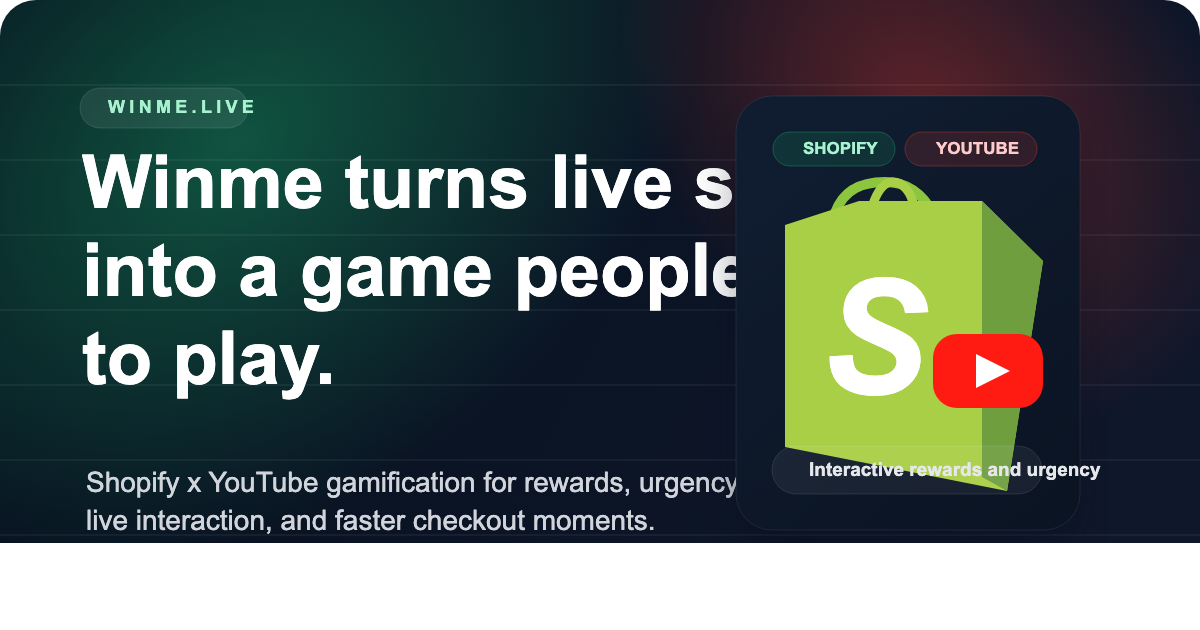
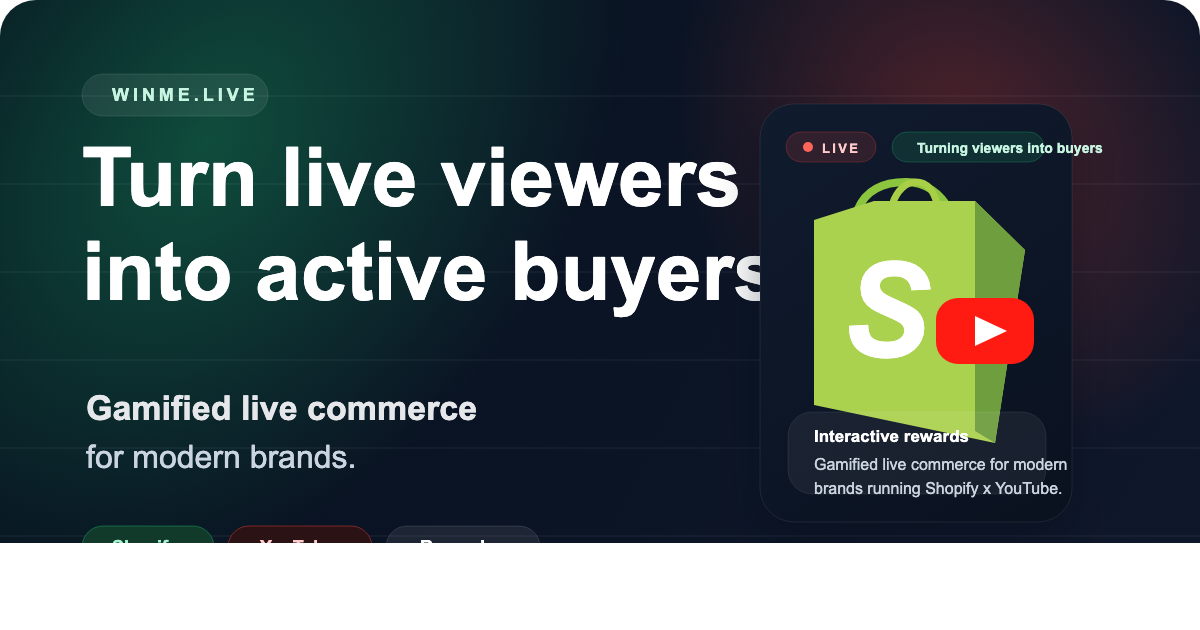
Improve WhatsApp share preview

diff --git a/index.html b/index.html
@@ -14,16 +14,16 @@
     />
     <meta
       name="description"
-      content="Winme turns live shopping into a game people want to play."
+      content="Turn live viewers into active buyers. Gamified live commerce for modern brands."
     />
     <meta name="theme-color" content="#0f172a" />
     <link rel="canonical" href="https://winme.live/" />
     <meta property="og:type" content="website" />
     <meta property="og:site_name" content="Winme.live" />
-    <meta property="og:title" content="Winme turns live shopping into a game people want to play." />
+    <meta property="og:title" content="Turn live viewers into active buyers." />
     <meta
       property="og:description"
-      content="Shopify x YouTube gamification for rewards, urgency, live interaction, and faster checkout moments."
+      content="Winme turns live shopping into a game people want to play. Gamified live commerce for modern brands."
     />
     <meta property="og:url" content="https://winme.live/" />
     <meta property="og:image" content="https://winme.live/og-preview.png" />
@@ -31,12 +31,12 @@
     <meta property="og:image:type" content="image/png" />
     <meta property="og:image:width" content="1200" />
     <meta property="og:image:height" content="630" />
-    <meta property="og:image:alt" content="Winme live shopping preview with Shopify and YouTube branding." />
+    <meta property="og:image:alt" content="Winme preview card showing Shopify and YouTube live commerce branding." />
     <meta name="twitter:card" content="summary_large_image" />
-    <meta name="twitter:title" content="Winme turns live shopping into a game people want to play." />
+    <meta name="twitter:title" content="Turn live viewers into active buyers." />
     <meta
       name="twitter:description"
-      content="Shopify x YouTube gamification for rewards, urgency, live interaction, and faster checkout moments."
+      content="Winme turns live shopping into a game people want to play. Gamified live commerce for modern brands."
     />
     <meta name="twitter:image" content="https://winme.live/og-preview.png" />
     <title>Winme.live</title>
